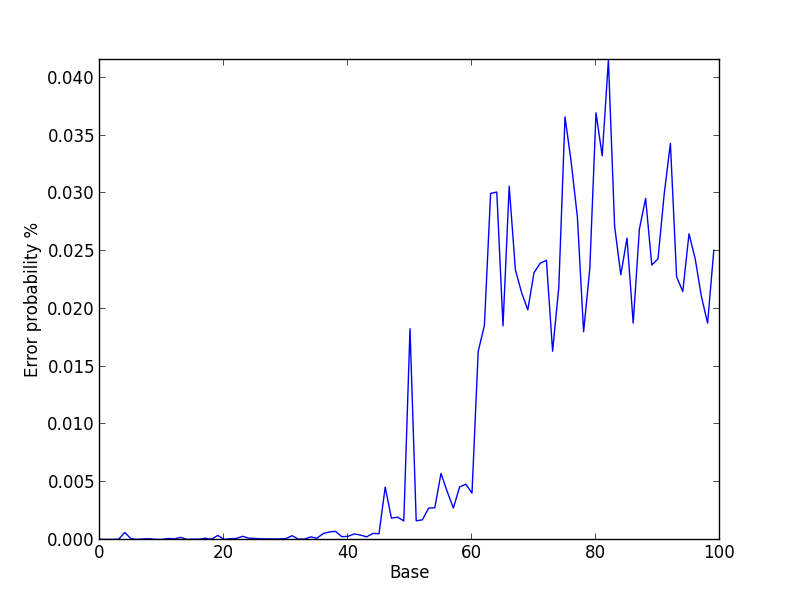
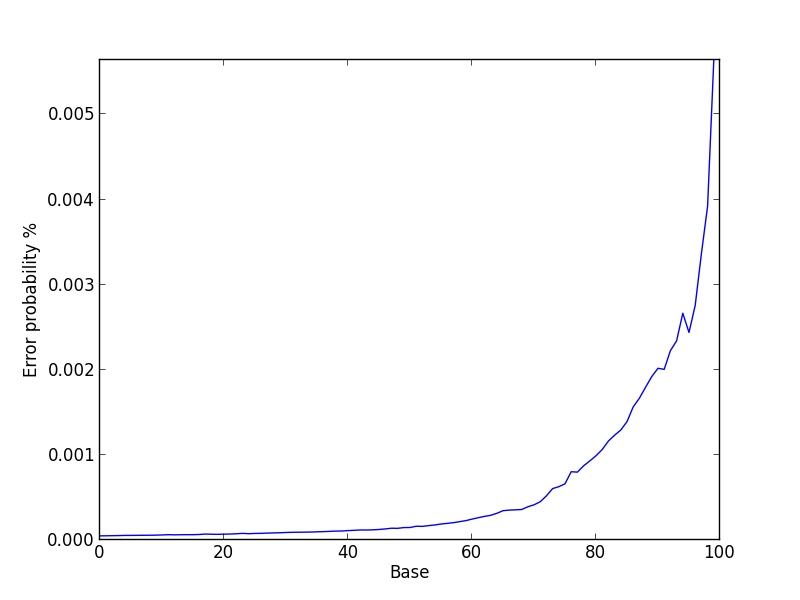
Fixed probability generating code & added new graph

diff --git a/src/hw1/hw1.py b/src/hw1/hw1.py
@@ -7,6 +7,7 @@ from Bio import SeqIO
 from Bio.SeqUtils import GC
 
 import matplotlib
+
 matplotlib.use('Agg')
 import matplotlib.pyplot as plt
 
@@ -14,6 +15,7 @@ import matplotlib.pyplot as plt
 def relative_path(relative_path_part):
     script_dir = path.dirname(__file__)
     return path.join(script_dir, relative_path_part)
+
 
 DEFAULT_INPUT = list(map(relative_path, ['../../resource/hw1/test3.fastq']))
 
@@ -83,16 +85,21 @@ def combine_two_scores(old, new):
 def score_to_probabilites(scores):
     return list(10 ** ((-score) * 1.0 / 10 + 2) for score in scores)
 
+
 MAX_READ_LENGTH = 2000
+
 
 def get_quality_distribution(records):
     mean_qualities = [0 for _ in xrange(MAX_READ_LENGTH)]
     real_max_read_length = 0
+    reads = 0
     for quality in (get_record_quality(r) for r in records):
         for i, q in enumerate(quality):
-            mean_qualities[i] = (mean_qualities[i] + q) * 1.0 / 2
+            mean_qualities[i] += q
         real_max_read_length = max(len(quality), real_max_read_length)
+        reads += 1
     mean_qualities = mean_qualities[:real_max_read_length]
+    mean_qualities = [q * 1.0 / reads for q in mean_qualities]
     probabilities = score_to_probabilites(mean_qualities)
     plt.plot(range(0, len(probabilities)), probabilities)
     plt.ylabel('Error probability %')
@@ -100,6 +107,7 @@ def get_quality_distribution(records):
     plt.axis([0, len(probabilities), 0, max(probabilities)])
     plt.savefig(result_file('nucleotide_error_probability.png'))
     plt.clf()
+
 
 if __name__ == '__main__':
     make_result_dir()
